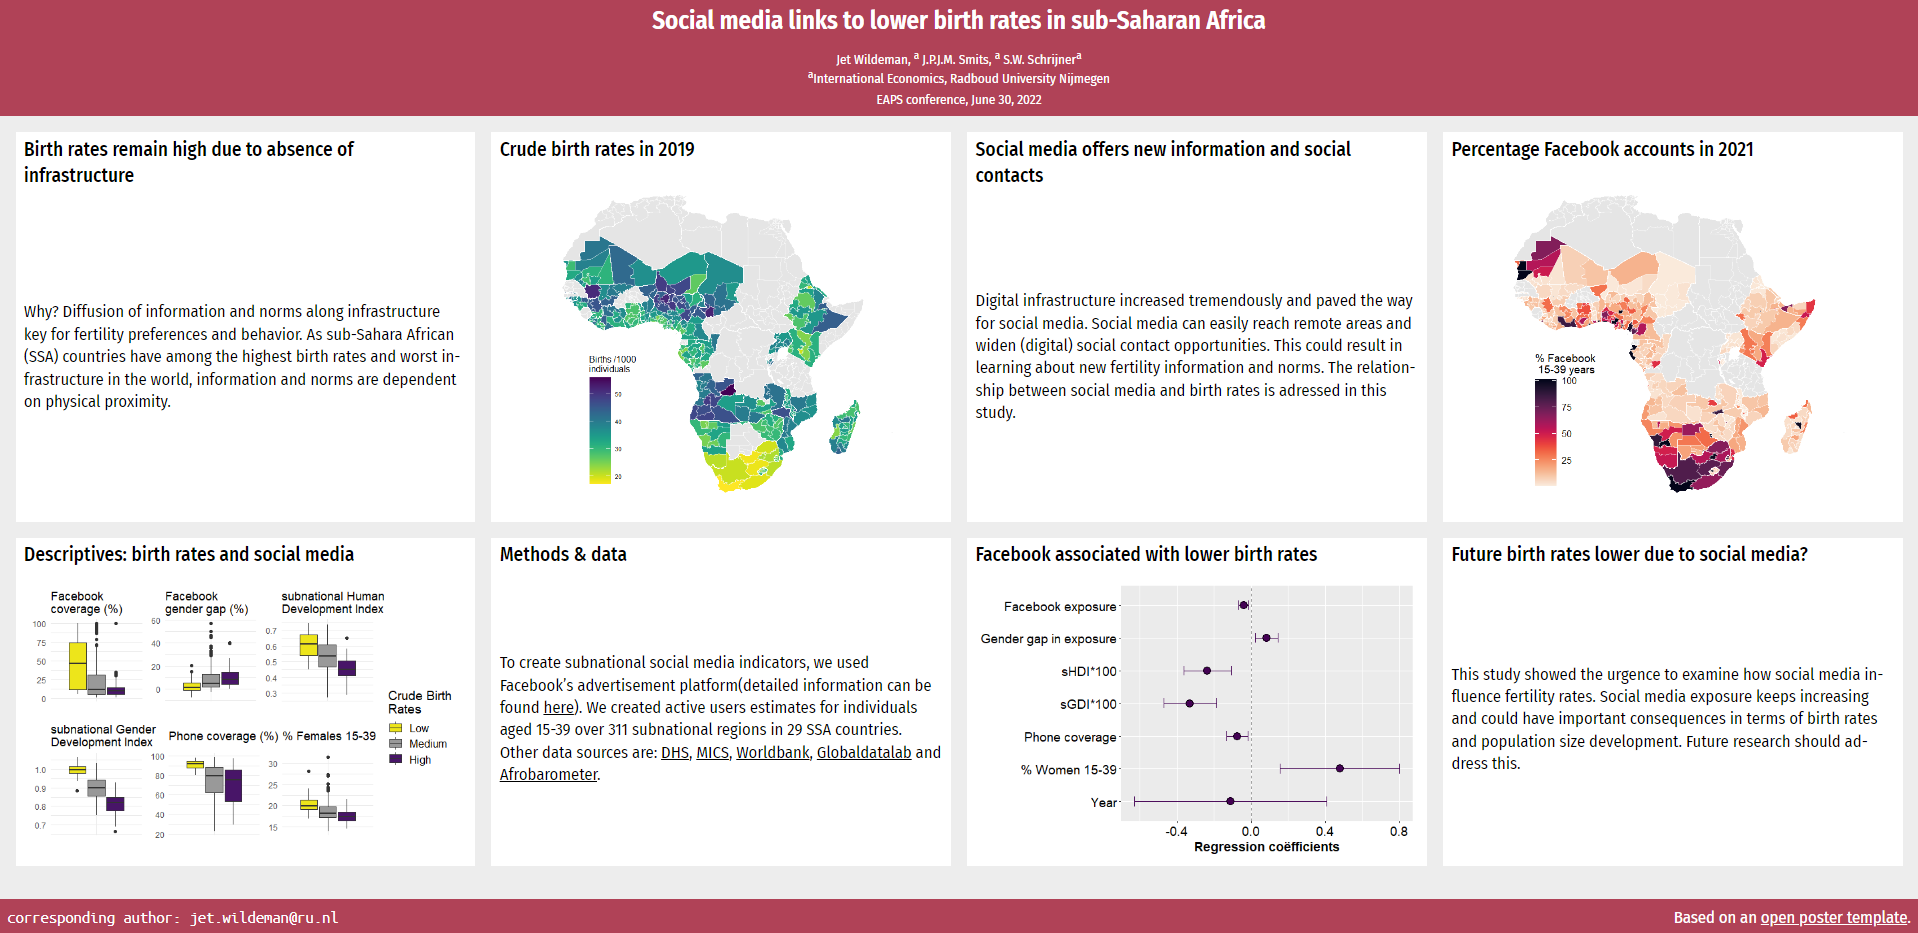
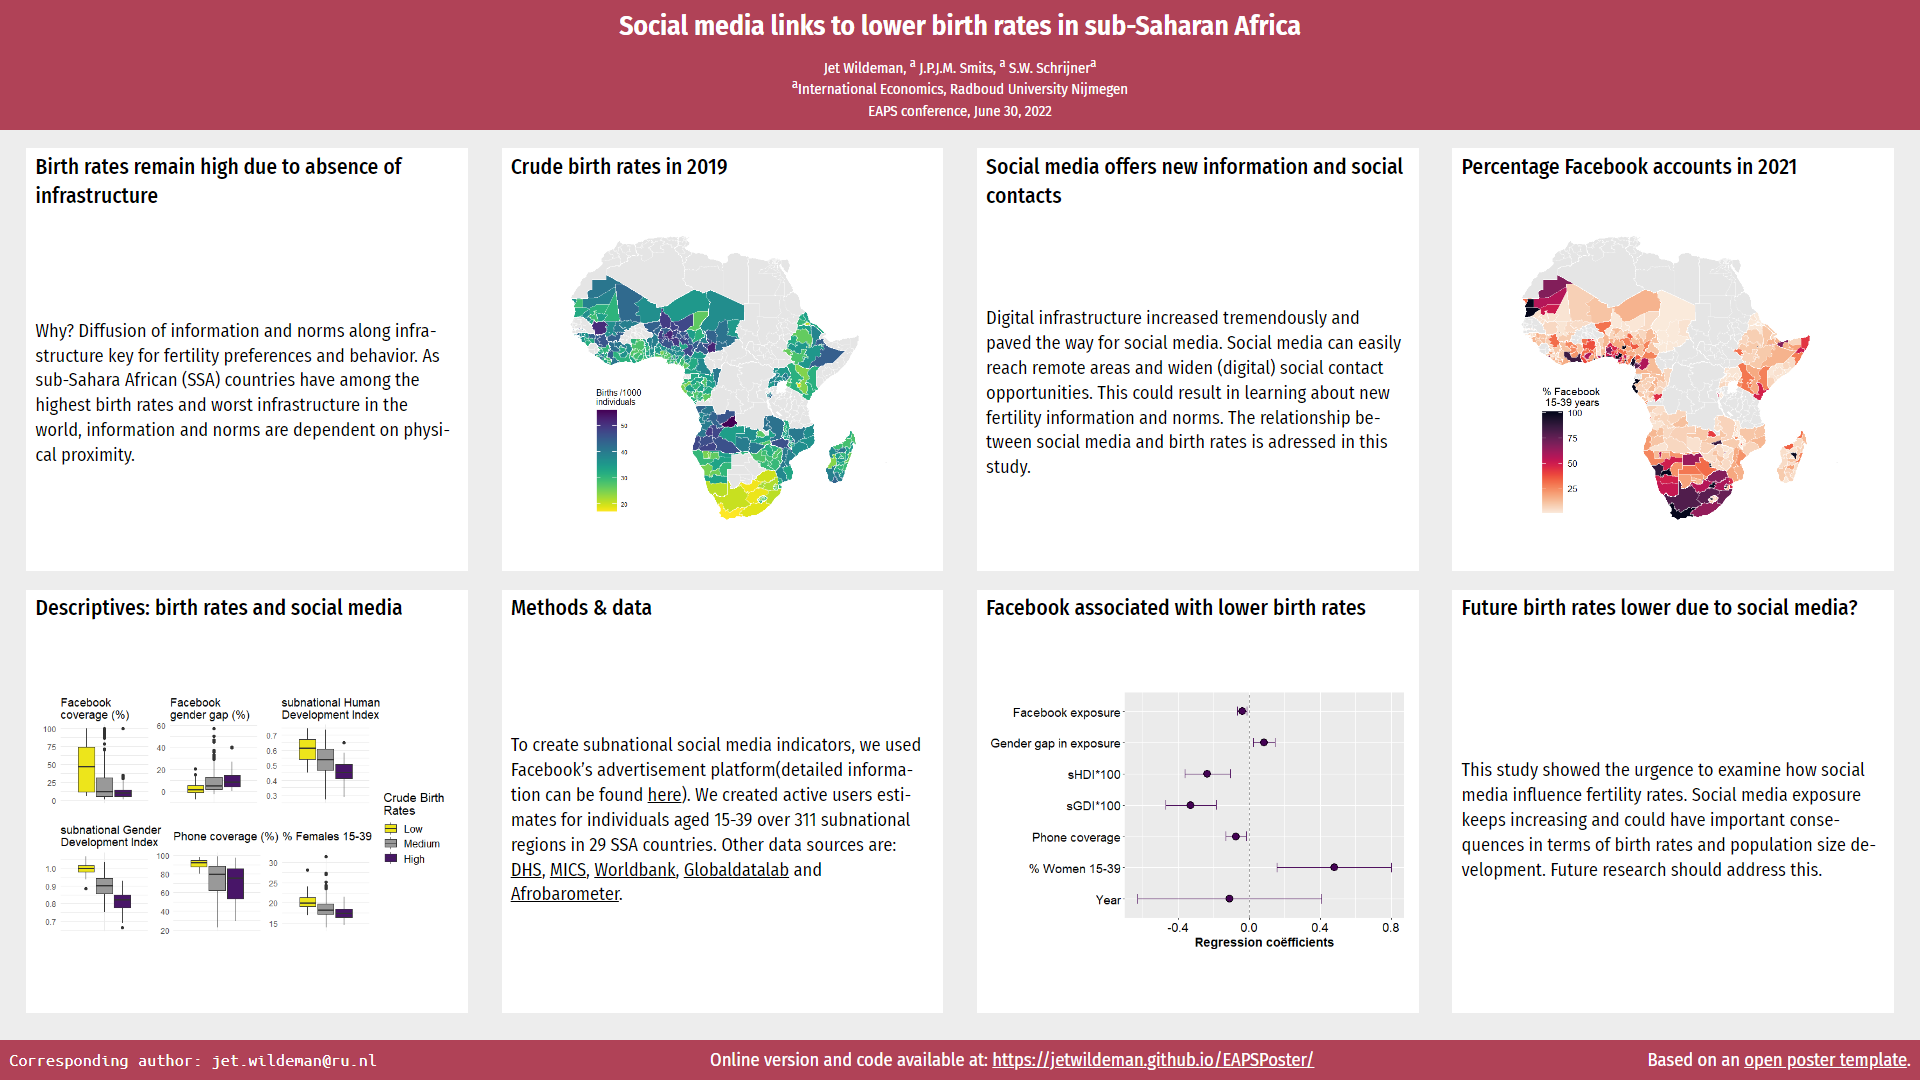
meeting screen fit

diff --git a/index.html b/index.html
@@ -96,7 +96,7 @@
       <address class="monospace">  Corresponding author: jet.wildeman@ru.nl
 </address>
 <span class="credits">
-Online version and code available at <a href="https://jetwildeman.github.io/EAPSPoster/">https://jetwildeman.github.io/EAPSPoster/</a>
+Online version and code available at: <a href="https://jetwildeman.github.io/EAPSPoster/">https://jetwildeman.github.io/EAPSPoster/</a>
 </span>
                     <span class="credits">
           Based on an <a href="https://github.com/cpitclaudel/academic-poster-template">open poster template</a>.

diff --git a/poster.css b/poster.css
@@ -66,8 +66,8 @@ b {
 	margin-top: 0.5rem;
     max-width: 24rem;
     min-width: 24rem;
-	min-height: 20rem;
-	max-height: 20rem;
+	min-height: 23rem;
+	max-height: 23rem;
     width: 24%;
     width: calc(100% / 4 - 1rem);
   }
